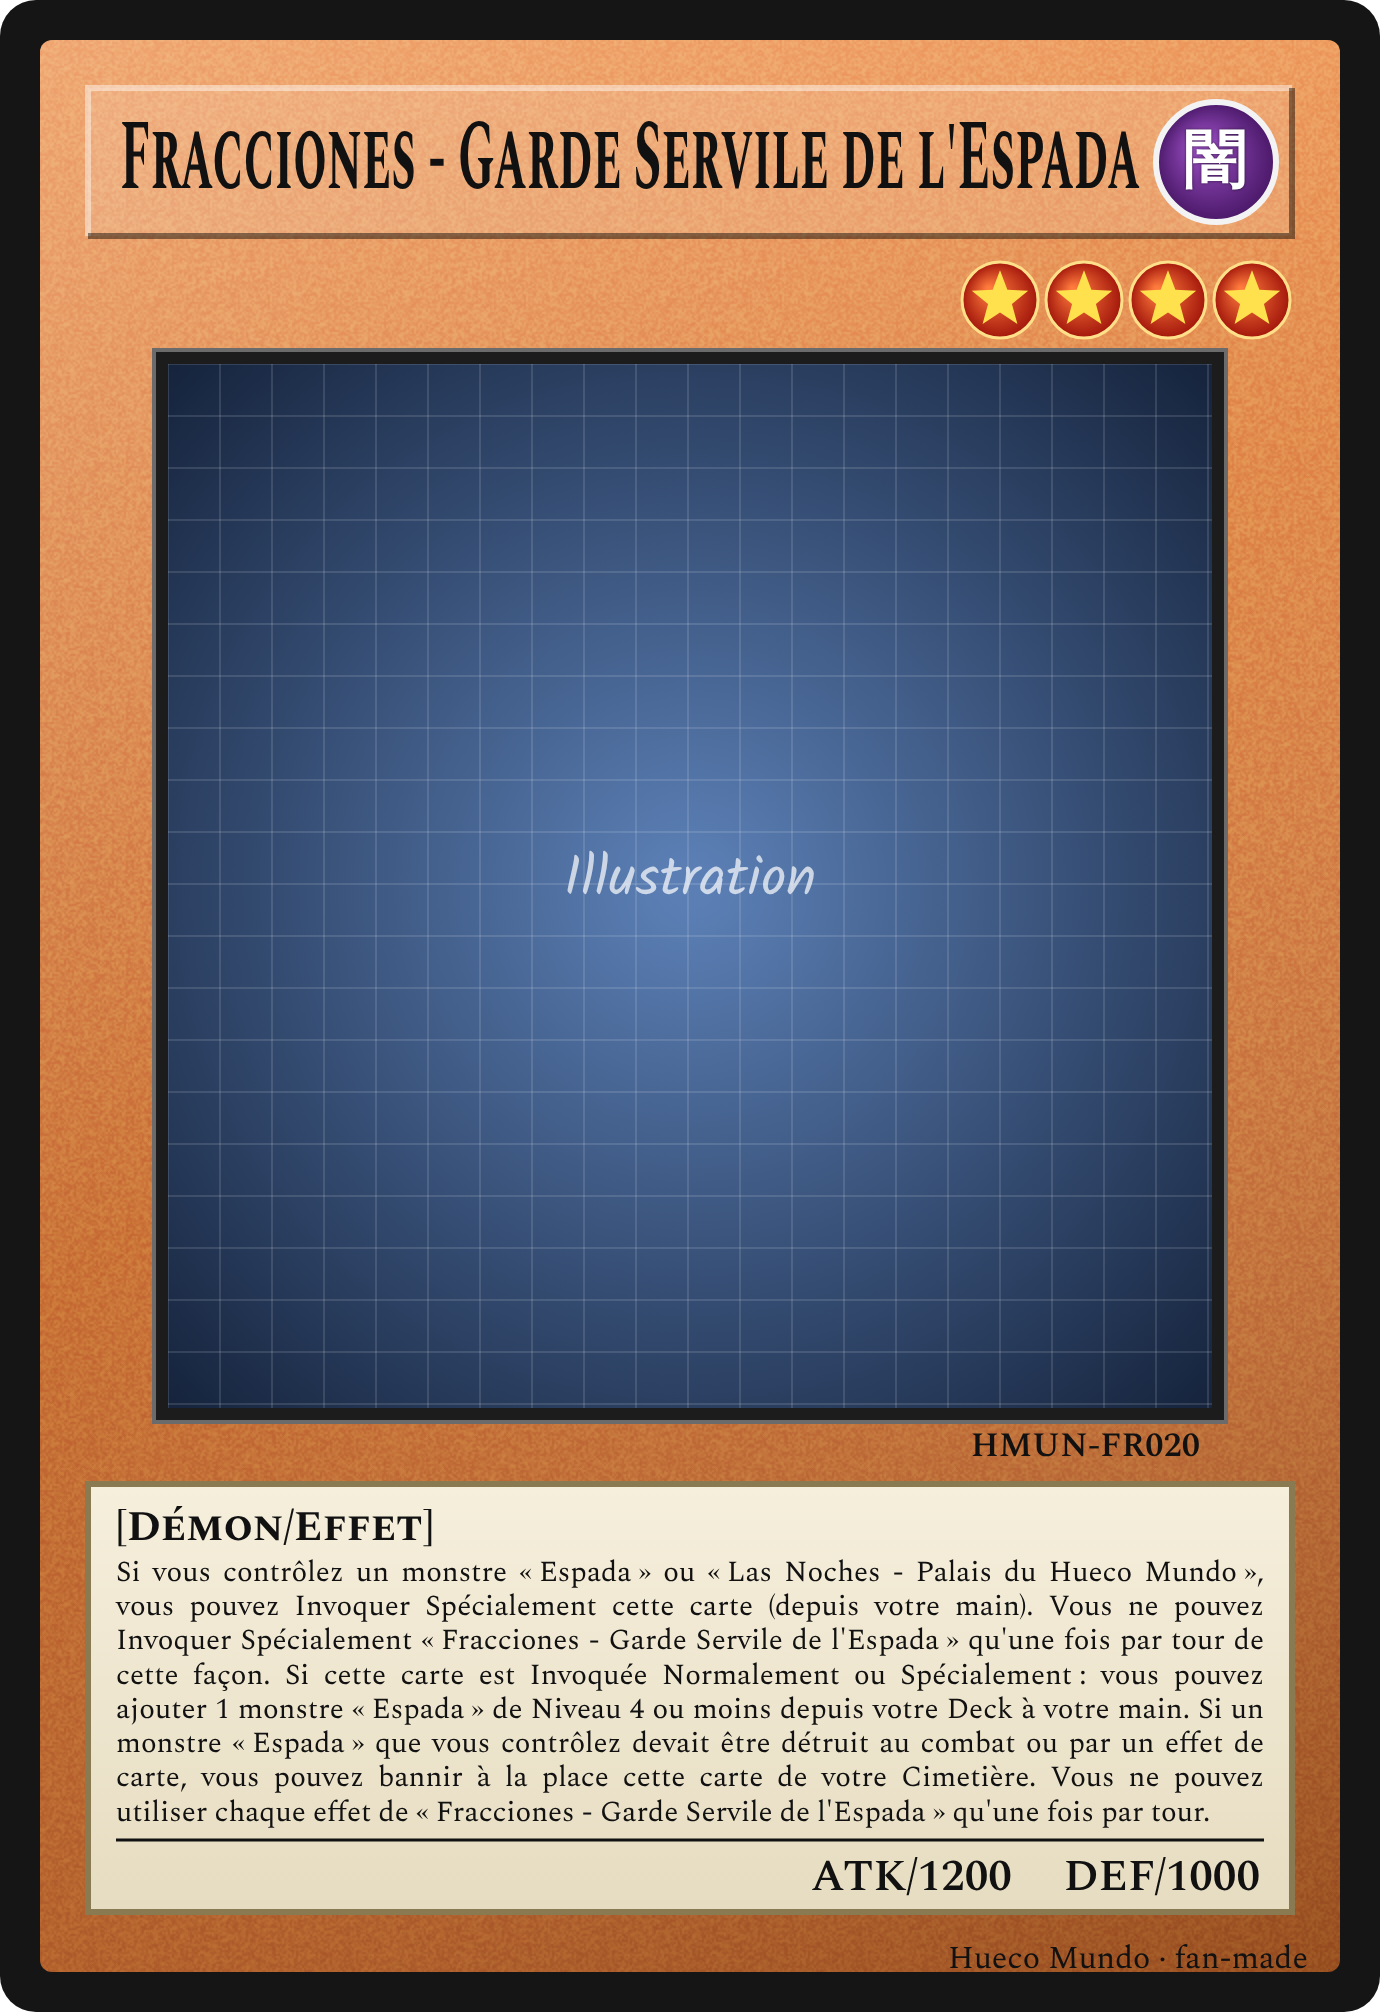
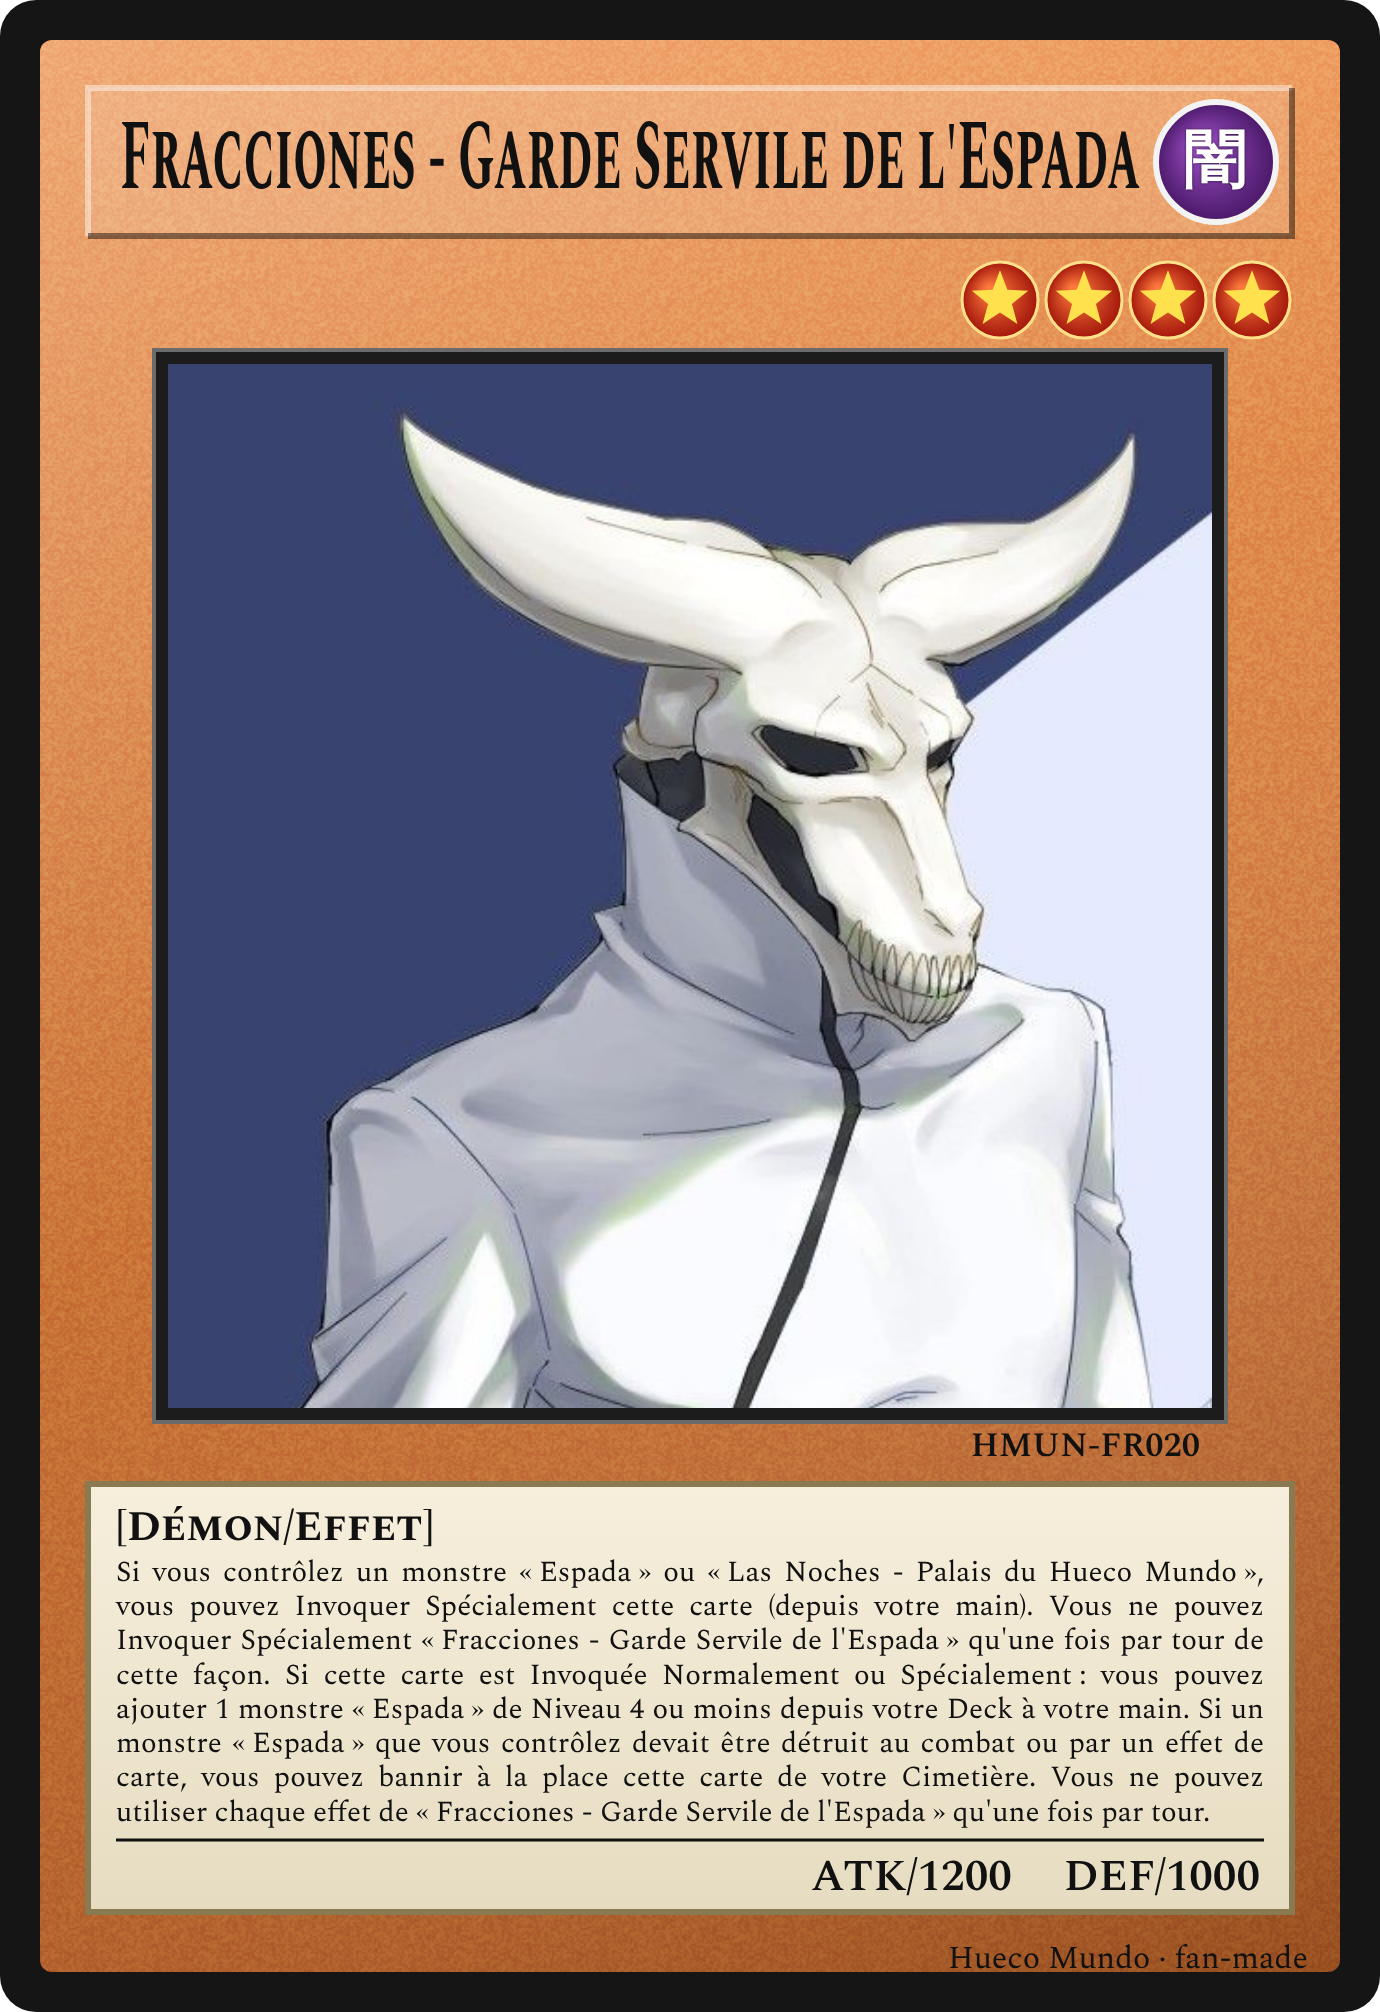
Hueco Mundo : visuel de Fracciones - Garde Servile de l'Espada
Claude-Session: https://claude.ai/code/session_01CeiwhQp6R4Er8VccCFyYbK

Changed region(s): [[0.1246, 0.1541, 0.9036, 0.7087], [0.2181, 0.3082, 0.3116, 0.339]]

diff --git a/archetypes/hueco-mundo/FICHE.md b/archetypes/hueco-mundo/FICHE.md
@@ -78,7 +78,7 @@ Magie Jeu-Rapide « Cero » (FR003).
 | HMUN-FR017 | Tier Harribel - Tiburón | Monstre Lien/Effet EAU, LINK-3 (↙ ↓ ↘), 2700 | Terminée |
 | HMUN-FR018 | Las Tres Bestias - Fracciones de la Chimère | Monstre à Effet EAU, Niv. 4, 1500/1500 | Terminée |
 | HMUN-FR019 | Ayon - Monstre de la Calamité | Monstre Fusion/Effet, Niv. 8, 3000/0 | Terminée |
-| HMUN-FR020 | Fracciones - Garde Servile de l'Espada | Monstre à Effet, Niv. 4, 1200/1000 | Texte validé · visuel à venir |
+| HMUN-FR020 | Fracciones - Garde Servile de l'Espada | Monstre à Effet, Niv. 4, 1200/1000 | Terminée |
 | HMUN-FR013 | Lilynette Gingerbuck - La Fracción du Premier Espada | Monstre à Effet, Niv. 4, 1000/1000 | Terminée (visuel basse résolution, 288×432) |
 | HMUN-FR002 | Las Noches - Palais du Hueco Mundo | Magie de Terrain | Terminée |
 | HMUN-FR003 | Cero Oscuras - Le Cero Noir du Désespoir | Magie Jeu-Rapide | Terminée |
